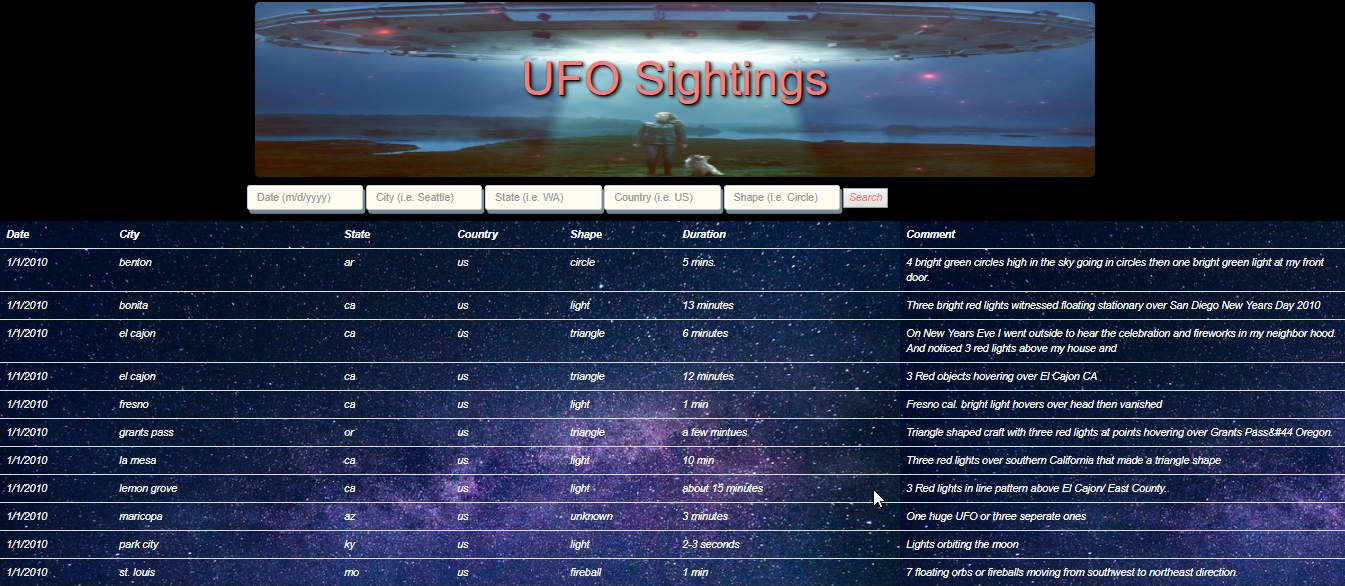
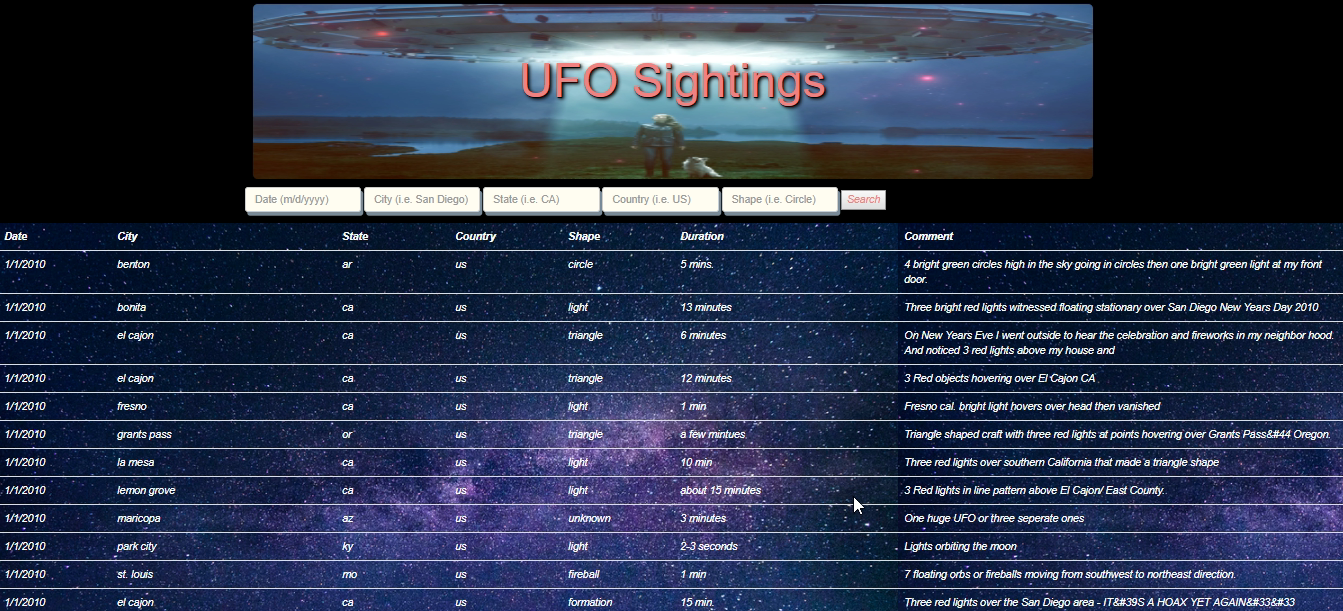
Updating file

Changed region(s): [[0.0, 0.0922, 1.0, 1.0], [0.1832, 0.0, 0.8243, 0.0614], [0.1832, 0.4608, 0.2137, 0.4915]]

diff --git a/index.html b/index.html
@@ -22,8 +22,8 @@
                 <div class="col-md-12">
                     <div class="form-group">
                         <input type="text" class="form-control" id="date" placeholder="Date (m/d/yyyy)">
-                        <input type="text" class="form-control" id="city" placeholder="City (i.e. Seattle)">
-                        <input type="text" class="form-control" id="state" placeholder="State (i.e. WA)">
+                        <input type="text" class="form-control" id="city" placeholder="City (i.e. San Diego)">
+                        <input type="text" class="form-control" id="state" placeholder="State (i.e. CA)">
                         <input type="text" class="form-control" id="country" placeholder="Country (i.e. US)">
                         <input type="text" class="form-control" id="shape" placeholder="Shape (i.e. Circle)">
                         <button type="submit"><i class=""btn btn-default" id="search" type="button">Search</button>
